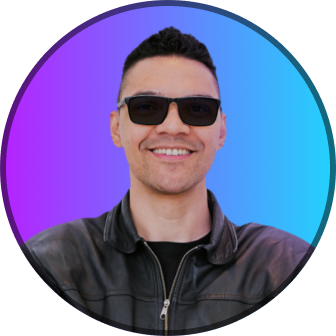
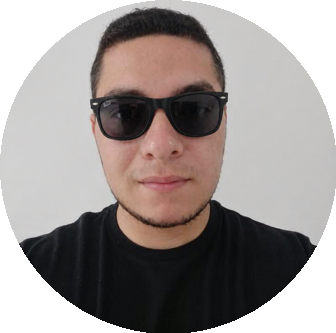
update href links

diff --git a/index.html b/index.html
@@ -17,9 +17,9 @@
       <div id="profile">
         <img
           src="./assets/avatar.png"
-          alt="Foto de Mayk Brito sorrindo, usando óculos e camisa preta,barba e fundo azul/roxo"
+          alt="Foto de Fabio Sodre, usando óculos , camisa preta e fundo branco"
         />
-        <p>@maykbrito</p>
+        <p>@fabio.sdre</p>
       </div>
       <div id="switch" onclick="toggleMode()">
         <button></button>
@@ -27,13 +27,17 @@
       </div>
       <ul>
         <li>
-          <a href="#">Increver-se no NLW</a>
+          <a href="#" target="_blank">Increver-se no NLW</a>
         </li>
         <li>
-          <a href="#">Baixa meu e-book</a>
+          <a href="#" target="_blank">Baixa meu e-book</a>
         </li>
         <li>
-          <a href="#">Veja meu portfólio</a>
+          <a
+            href="https://github.com/fabiosodre?tab=repositories"
+            target="_blank"
+            >Veja meu portfólio</a
+          >
         </li>
         <li>
           <a href="https://rocketseat.com.br/explorer" target="_blank"
@@ -42,16 +46,16 @@
         </li>
       </ul>
       <div id="social-links">
-        <a href="https://github.com/maykbrito" target="_blank">
+        <a href="https://github.com/fabiosodre" target="_blank">
           <ion-icon name="logo-github"></ion-icon>
         </a>
-        <a href="https://github.com/maykbrito" target="_blank">
+        <a href="https://www.instagram.com/fabio.sdre" target="_blank">
           <ion-icon name="logo-instagram"></ion-icon>
         </a>
-        <a href="https://github.com/maykbrito" target="_blank">
+        <a href="" target="_blank">
           <ion-icon name="logo-youtube"></ion-icon>
         </a>
-        <a href="https://github.com/maykbrito" target="_blank">
+        <a href="https://www.linkedin.com/in/fabiosodre" target="_blank">
           <ion-icon name="logo-linkedin"></ion-icon>
         </a>
       </div>

diff --git a/script.js b/script.js
@@ -14,13 +14,13 @@ function toggleMode() {
     img.setAttribute("src", "./assets/avatar-light.png")
     img.setAttribute(
       "alt",
-      "Foto de Mayk Brito sorrindo, usando óculos escuros e camisa preta e fundo azul/rox",
+      "Foto de Fabio Sodre, usando camisa preta, e fundo branco",
     )
   } else {
     img.setAttribute("src", "./assets/avatar.png")
     img.setAttribute(
       "alt",
-      "Foto de Mayk Brito sorrindo, usando óculos e camisa preta e fundo azul/rox",
+      "Foto de Fabio Sodre, usando óculos , camisa preta e fundo branco",
     )
   }
 }